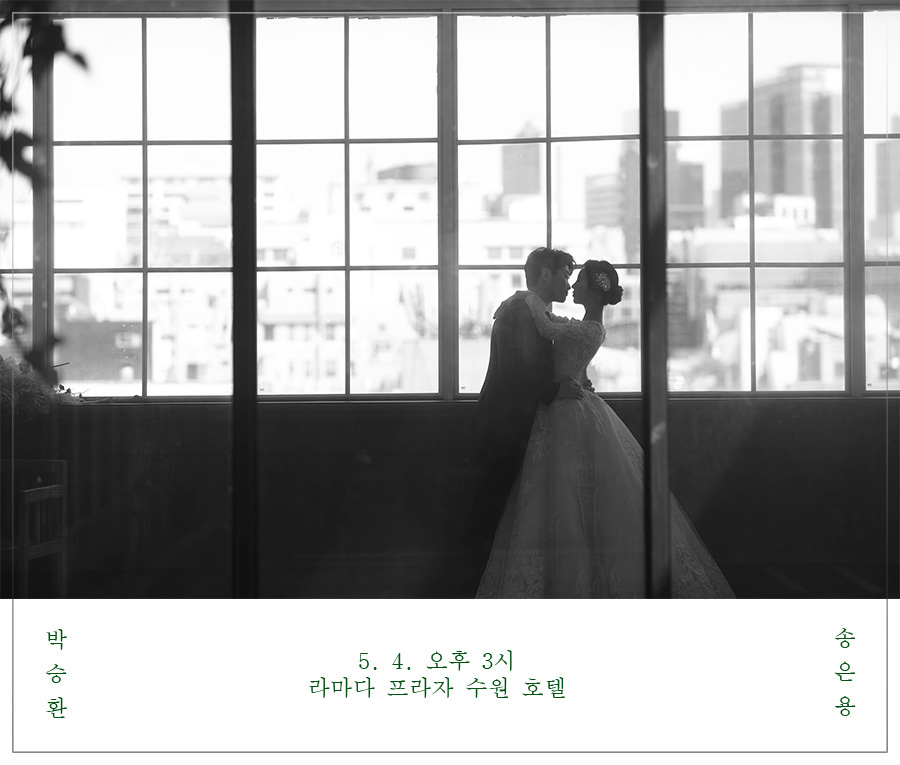
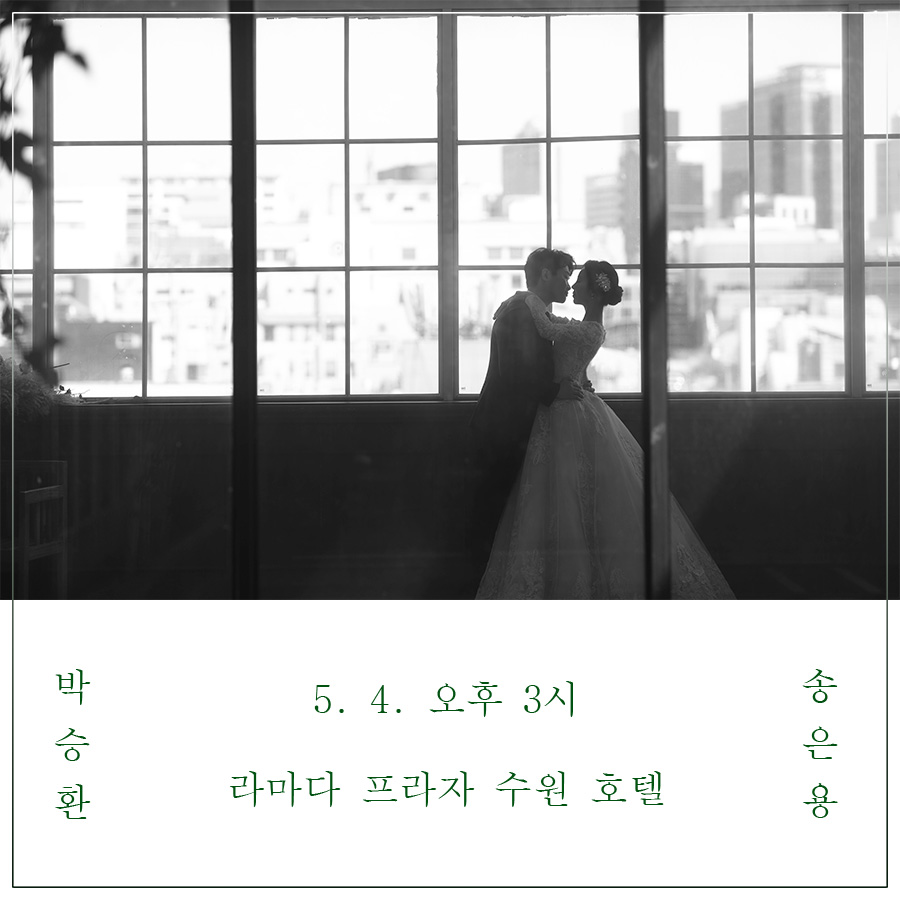
feature: Update top image

diff --git a/index.html b/index.html
@@ -98,7 +98,7 @@
 <!--                    <h2>은용 ♡ 승환</h2>-->
 <!--                    <h2>2019. &nbsp;5. &nbsp;4. &nbsp;3 PM</h2>-->
 <!--                    </p>-->
-                    <img src="img/top_image_1_900w.jpg" height="765" width="900"/>
+                    <img src="img/top_image_1_900w.jpg" height="900" width="900"/>
                     <div id="countdown">
                         <ul>
                             <div align="center">

diff --git a/css/style.css b/css/style.css
@@ -1,6 +1,6 @@
 #top_container {
     width: 100%;
-    height: 765px;
+    height: 900px;
     position: relative;
     max-width: 900px;
     min-width: 900px;
